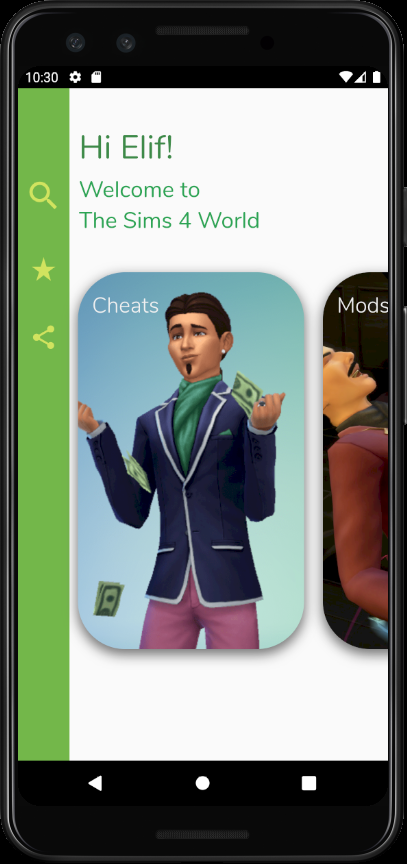
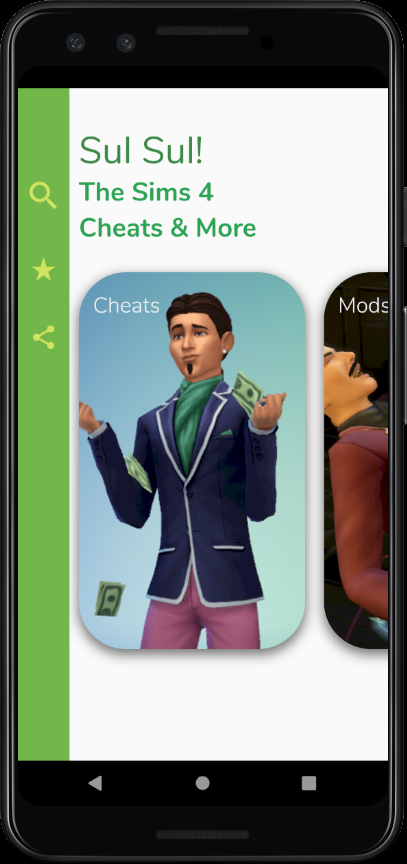
login deleted

diff --git a/lib/main.dart b/lib/main.dart
@@ -1,9 +1,10 @@
 import 'package:flutter/material.dart';
 import 'package:google_fonts/google_fonts.dart';
 import 'package:provider/provider.dart';
+import 'package:sims4_cheats/view/Pages/home.dart';
 import 'controller/admob.dart';
 import 'controller/fetch.dart';
-import 'view/Pages/login.dart';
+
 import 'view/colors.dart';
 
 void main() {
@@ -40,13 +41,13 @@ class MyApp extends StatelessWidget {
                     color: whiteHeadlineColor),
                 headline3: GoogleFonts.nunito(
                     textStyle: textTheme.bodyText1,
-                    fontSize: 35,
+                    fontSize: 40,
                     fontWeight: FontWeight.w400,
                     color: greenDark1),
                 headline4: GoogleFonts.nunito(
-                    textStyle: textTheme.bodyText1,
-                    fontSize: 24,
-                    fontWeight: FontWeight.w500,
+                    textStyle: textTheme.headline4,
+                    fontSize: 28,
+                    fontWeight: FontWeight.w700,
                     color: greenDark2),
                 bodyText1: GoogleFonts.antic(
                     textStyle: textTheme.bodyText1,
@@ -61,7 +62,7 @@ class MyApp extends StatelessWidget {
                 )),
             primaryColor: greenDark1,
             accentColor: greenDark1),
-        home: Login(),
+        home: HomePage(),
       ),
     );
   }

diff --git a/lib/view/Pages/home.dart b/lib/view/Pages/home.dart
@@ -44,14 +44,14 @@ class _HomePageState extends State<HomePage> {
                       flex: 1,
                       fit: FlexFit.tight,
                       child: Headline3(
-                        text: "Hi " + widget.name + "!",
+                        text: "Sul Sul! ",
                       ),
                     ),
                     Flexible(
                       flex: 2,
                       fit: FlexFit.tight,
                       child: Headline4(
-                        text: "Welcome to\nThe Sims 4 World",
+                        text: "The Sims 4\nCheats & More",
                       ),
                     ),
                     Flexible(
